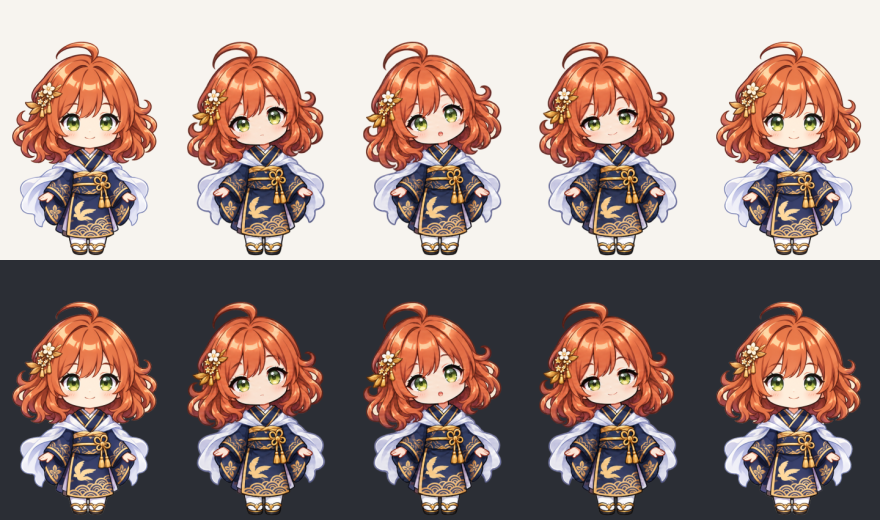
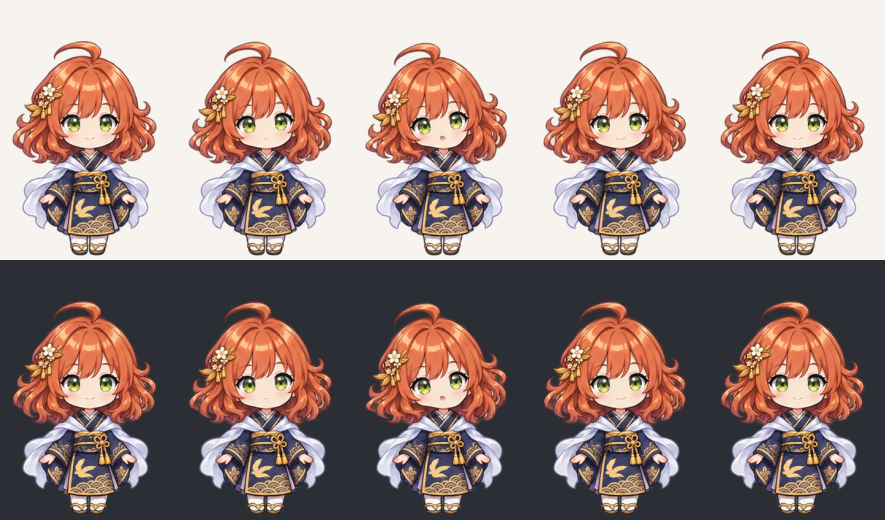
会話窓を開く首かしげの肩と足を通常立ち絵に固定

diff --git a/artwork-review/README.md b/artwork-review/README.md
@@ -1,6 +1,6 @@
 # キャラクター操作の作画候補
 
-起動、メニュー表示、会話窓の開閉に対応する差し替え検討用素材。のぞき込みはメニューが出る側に合わせて左右を別に描いた。4演出、左右差を含めて5本、3コマずつの計15枚。PNGの比較と単体再生まで確認。アプリへの組み込み・採用判断・Windows実機での確認は未実施。
+起動、メニュー表示、会話窓の開閉に対応する差し替え検討用素材。のぞき込みはメニューが出る側に合わせて左右を別に描いた。4演出、左右差を含めて5本、3コマずつの計15枚。PNGの比較と単体再生まで確認。首かしげの旧稿は試用版 `07b3115b` に収録された。以下の首かしげはその試用結果を受けた修正候補で、実機確認はこれから。
 
 | 操作 | 素材 | 確認用 | 移行・頂点・戻り（ms） |
 |---|---|---|---|
@@ -12,13 +12,13 @@
 
 **切り出し。** 各PNGは864×368 px。左上を原点に、`[x,y,幅,高さ]` は左から `[0,0,288,368]`、`[288,0,288,368]`、`[576,0,288,368]`。足アンカーは各セル内の `(144,360)`（両足中央・足裏の直下）。既存の静止 → 左 → 中 → 右 → 既存の静止の順。機械可読の矩形・時間・実測範囲は [frames.json](frames.json) を参照。
 
-**比較の見方。** 等倍比較は左から静止・移行・頂点・戻り・静止。上段は明るい背景、下段は暗い背景。同梱立ち絵 `Mascot.png` を既存の静止セルの表示高・足位置に合わせて両端の比較基準にした。96 DPIで標準260 DIPのウィンドウを想定し、1枠176×260 px、セルは176×225 px、上端は35 px。ブラウザーで原寸表示するとこの寸法で見比べられる。再生見本は同じ寸法のAPNG。繰り返しを見やすくする静止1秒は演出時間に含めない。
+**比較の見方。** 等倍比較は左から静止・移行・頂点・戻り・静止。上段は明るい背景、下段は暗い背景。首かしげの両端には製品の通常立ち絵の正面セルを原寸で使った。他の比較では同梱立ち絵 `Mascot.png` を静止セルの表示高・足位置に合わせている。96 DPIで標準260 DIPのウィンドウを想定し、首かしげは1枠177×260 px、セルの上端は約34.26 DIP。ほかは1枠176×260 px、セルは176×225 px、上端は35 px。ブラウザーで原寸表示するとこの寸法で見比べられる。再生見本は同じ寸法のAPNG。繰り返しを見やすくする静止1秒は演出時間に含めない。
 
 **選定メモ。**
 
 - お辞儀は襟と肩が帯へ近づき、手が腿の前に揃う稿を選んだ。移行から頂点までの頭頂の差はセル内で32 px。既存の下向きと見分ける手がかりは、目より肩・襟・袖に出る。静止から両手を腹前に寄せる変化は3コマの中では大きい。
 - のぞき込みはどちらも顔と上体がメニュー側へ寄る。金の髪飾りは画面左、帯の結びは画面右。襟合わせと鶴の向きも維持した。静止から移行で髪の横幅が少し細くなるので、アプリ上での切り替わりを見るときはここを確認する。
-- 首かしげは肩と裾を保ったまま、入りで首を傾け、頂点で口が開き、笑顔へ戻る稿を選んだ。目のラインから見積もった傾きはおよそ10° → 13° → 7°。表情と髪が動き、足を軸にした全身の回転は使っていない。
+- 首かしげは製品の正面セルを基準に、入りで片眉を動かし、頂点で小さく口を開け、笑みへ戻す。3コマとも肩・襟・足元のRGBA画素差は0。[確認範囲と画素差](conversation-open/README.md)
 - 閉じる会釈は、手を上げず、目を閉じて襟と肩がわずかに沈む。入りから頂点までの頭頂差は6 pxで、起動のお辞儀より浅い。時間案は395 ms、起動は710 ms。
 
 **透明と接地。** 全15コマで不透明度50%以上の最下行は `y=359`。足裏付近（最下行から2 px上）の左右端の中点は `x=144` から最大0.5 px差。セル境界上の非透明画素と、完全透明画素に残った色成分はいずれも0。明暗の両背景でコマ間の位置・顔・線・衣装の白布と輪郭を目視した。比較見本は素材の描画確認用で、Windowsのスクリーンショットではない。

diff --git a/artwork-review/conversation-open/README.md b/artwork-review/conversation-open/README.md
@@ -1,0 +1,37 @@
+# 会話窓を開く首かしげ
+
+通常立ち絵の首の支点 `(145,188)` を使い、画面左へ首をかしげる3コマ。入りで片眉と視線が動き、頂点で口を小さく開き、戻りで笑みが戻る。肩に掛かった毛先は襟と羽衣の位置に沿って残した。髪飾りは画面左、帯の飾りは画面右にある。
+
+[明暗背景の等倍比較](compare-260.png) · [再生見本（APNG）](playback-260.png) · [画素差](body-difference.png) · [透過スプライト](sprite.png) · [比較基準](reference-neutral.png)
+
+## 切り出しと再生
+
+各セルは288×368 px、足アンカーはセル内の `(144,360)`。通常立ち絵の座標のまま頭・表情・髪を調整した。頭頂の高さは頭の傾きに合わせて変化する。
+
+| コマ | 切り出し矩形（x, y, 幅, 高さ） | 時間 | 頭頂 y¹ |
+| --- | --- | ---: | ---: |
+| 通常 | 基準PNG全体 | — | 11 |
+| 入り | 0, 0, 288, 368 | 180 ms | 12 |
+| 頂点 | 288, 0, 288, 368 | 180 ms | 14 |
+| 戻り | 576, 0, 288, 368 | 220 ms | 12 |
+
+¹ 不透明度128/255以上。足裏の最下行は通常も3コマも `y=359`。
+
+等倍比較の左右端は製品の通常立ち絵。間に入り・頂点・戻りを並べた。96 DPIで高さ260 DIP、1枠177×260 px。ウィンドウ幅は約176.67 DIP、下端揃えのセルの表示高は約225.74 DIP。上段は明色、下段は暗色。再生見本は明色背景で通常を1秒表示してから580 msの首かしげを繰り返す。
+
+## 画素の確認
+
+基準は同梱 `MascotReactions.png` の左上 `(0,0,288,368)` を原寸で切り出した `reference-neutral.png`（Git blob `802220f89a40e9ce58d775e6e8281545393de11e`）。参照セルと各コマを同じ座標で重ね、RGBAの4値のいずれかが異なる画素を数えた。矩形は各セルの左上を原点とする。画素差画像は、変化のある可視画素が橙、同一の可視画素が灰。
+
+| 確認範囲 | 比較画素数／コマ | 入り | 頂点 | 戻り |
+| --- | ---: | ---: | ---: | ---: |
+| 可視の首・衣装・足（注） | 24,920 | 0 | 0 | 0 |
+| 左肩 `(110,217)` から11×8 px | 88 | 0 | 0 | 0 |
+| 右肩 `(166,217)` から11×8 px | 88 | 0 | 0 | 0 |
+| 襟 `(135,201)` から19×19 px | 361 | 0 | 0 | 0 |
+| `y=214` から下の全幅（羽衣・袖・腕・裾・足・透明余白を含む） | 44,352 | 0 | 0 | 0 |
+| 足元 `y=326…367` の全幅 | 12,096 | 0 | 0 | 0 |
+
+注：基準セルの `y≥179` でアルファが0より大きく、同一座標にある同梱 `MascotThinkingHead.png` の頭マスクが透明な画素。頭マスクは髪と胴体の境界の照合に使用した。髪飾り・目・衣装の白布と鶴・輪郭を明暗背景で目視した。全コマでセル境界上の非透明画素は0、完全透明画素に残る非ゼロRGBも0。
+
+作画候補の検品記録。Windows実機での修正版の確認は未実施。
